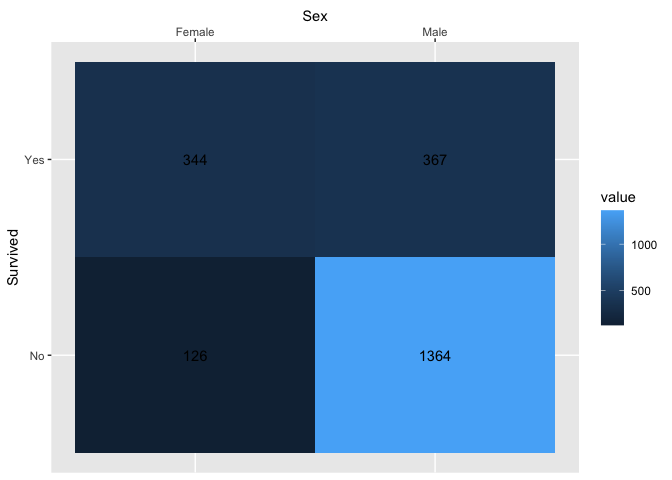
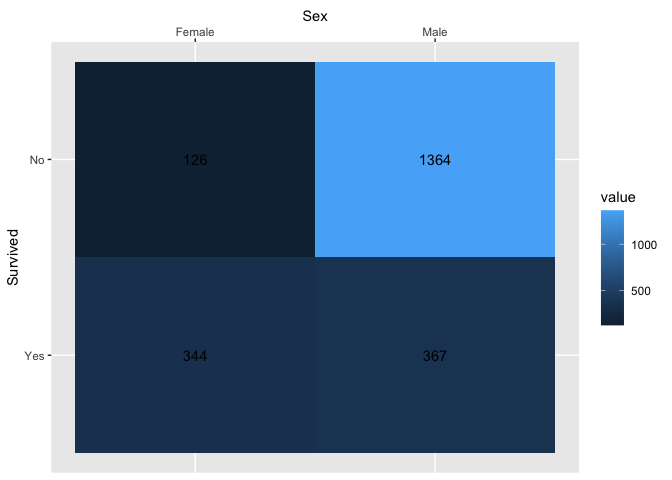
ggverbatim function

diff --git a/README.md b/README.md
@@ -76,15 +76,46 @@ You can include R chunks like so:
 
 ``` r
 vis_arrangement %>% 
-  pivot_longer(cols = -1, names_to = "Sex") %>% 
+  pivot_longer(cols = -1) %>% 
 ggplot() + 
-  aes(x = Sex) + 
+  aes(x = name) + 
+  labs(x = "Sex") + 
   aes(y = Survived) + 
   aes(label = value) + 
   aes(fill = value) + 
   geom_tile() + 
   geom_text() + 
-  scale_x_discrete(position = "top")
+  scale_x_discrete(position = "top") + 
+  scale_y_discrete(limits=rev)
 ```
 
 <img src="man/figures/README-cars-1.png" width="100%" />
+
+``` r
+
+
+# so
+
+ggverbatim <- function(data, rows_var = NULL, cols_var_name = "x"){
+  
+data %>% 
+  pivot_longer(cols = -1) %>% 
+ggplot() + 
+  aes(x = name) + 
+  labs(x = cols_var_name) + 
+  aes(y = {{rows_var}}) + 
+  aes(label = value) + 
+  aes(fill = value) + 
+  scale_x_discrete(position = "top") + 
+  scale_y_discrete(limits=rev)
+  
+}
+
+vis_arrangement %>% 
+  ggverbatim(rows_var = Survived) + 
+  geom_text() + 
+  geom_tile(alpha = .2) +
+  labs(x = "Sex")
+```
+
+<img src="man/figures/README-cars-2.png" width="100%" />
